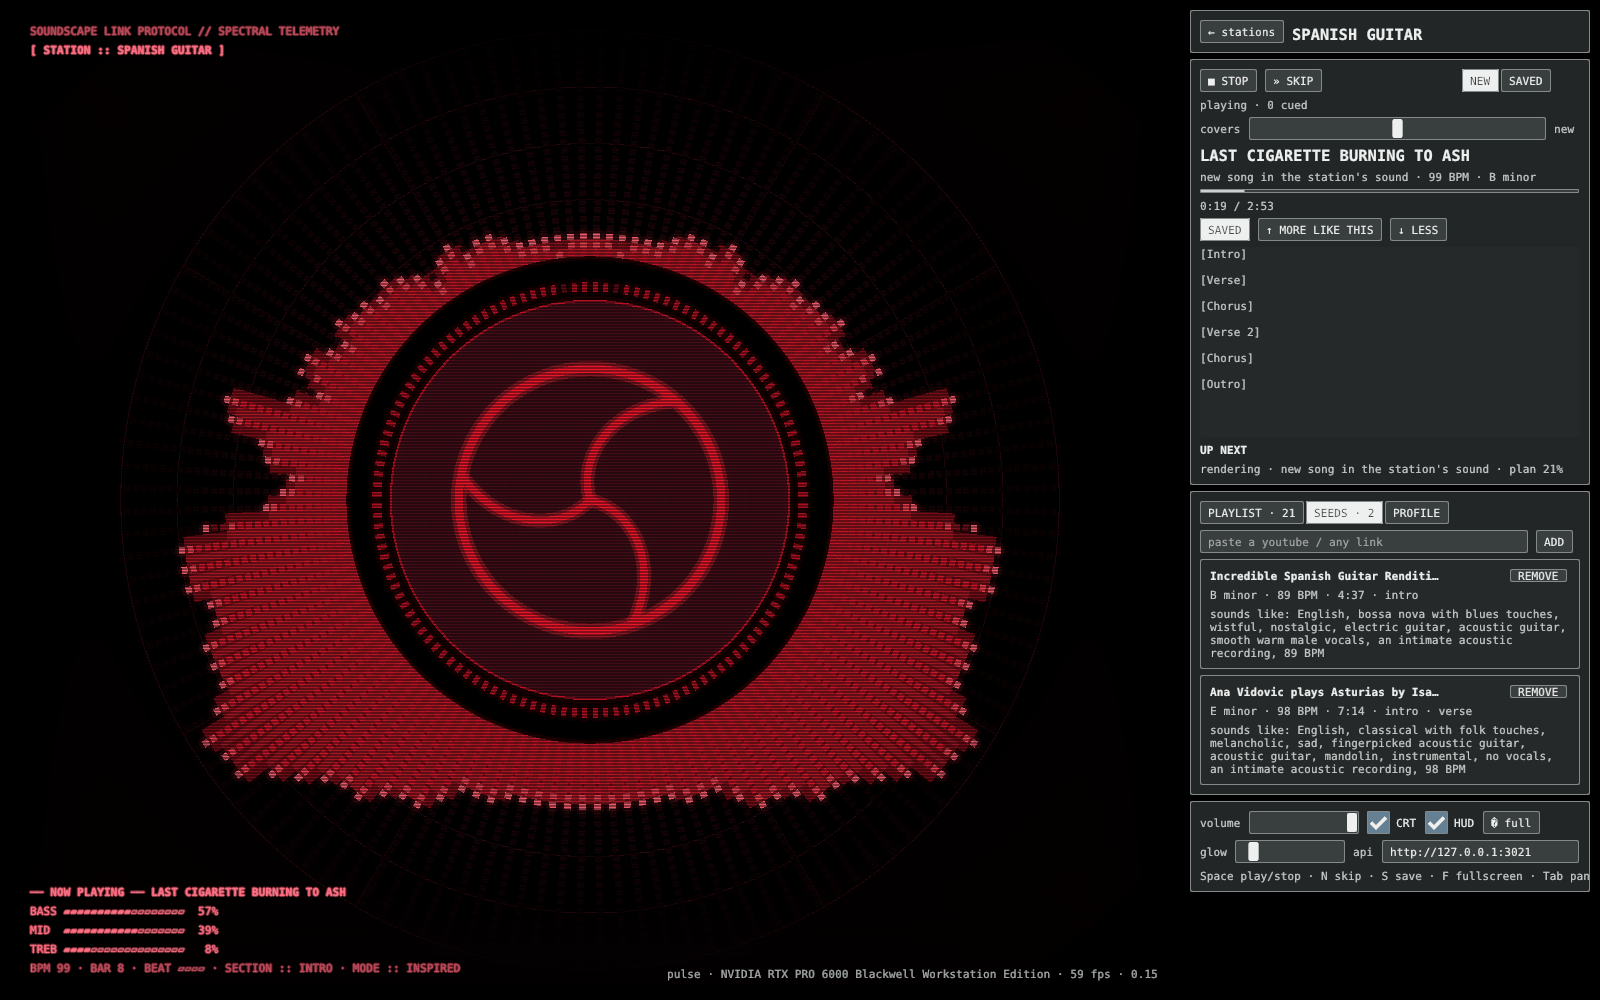
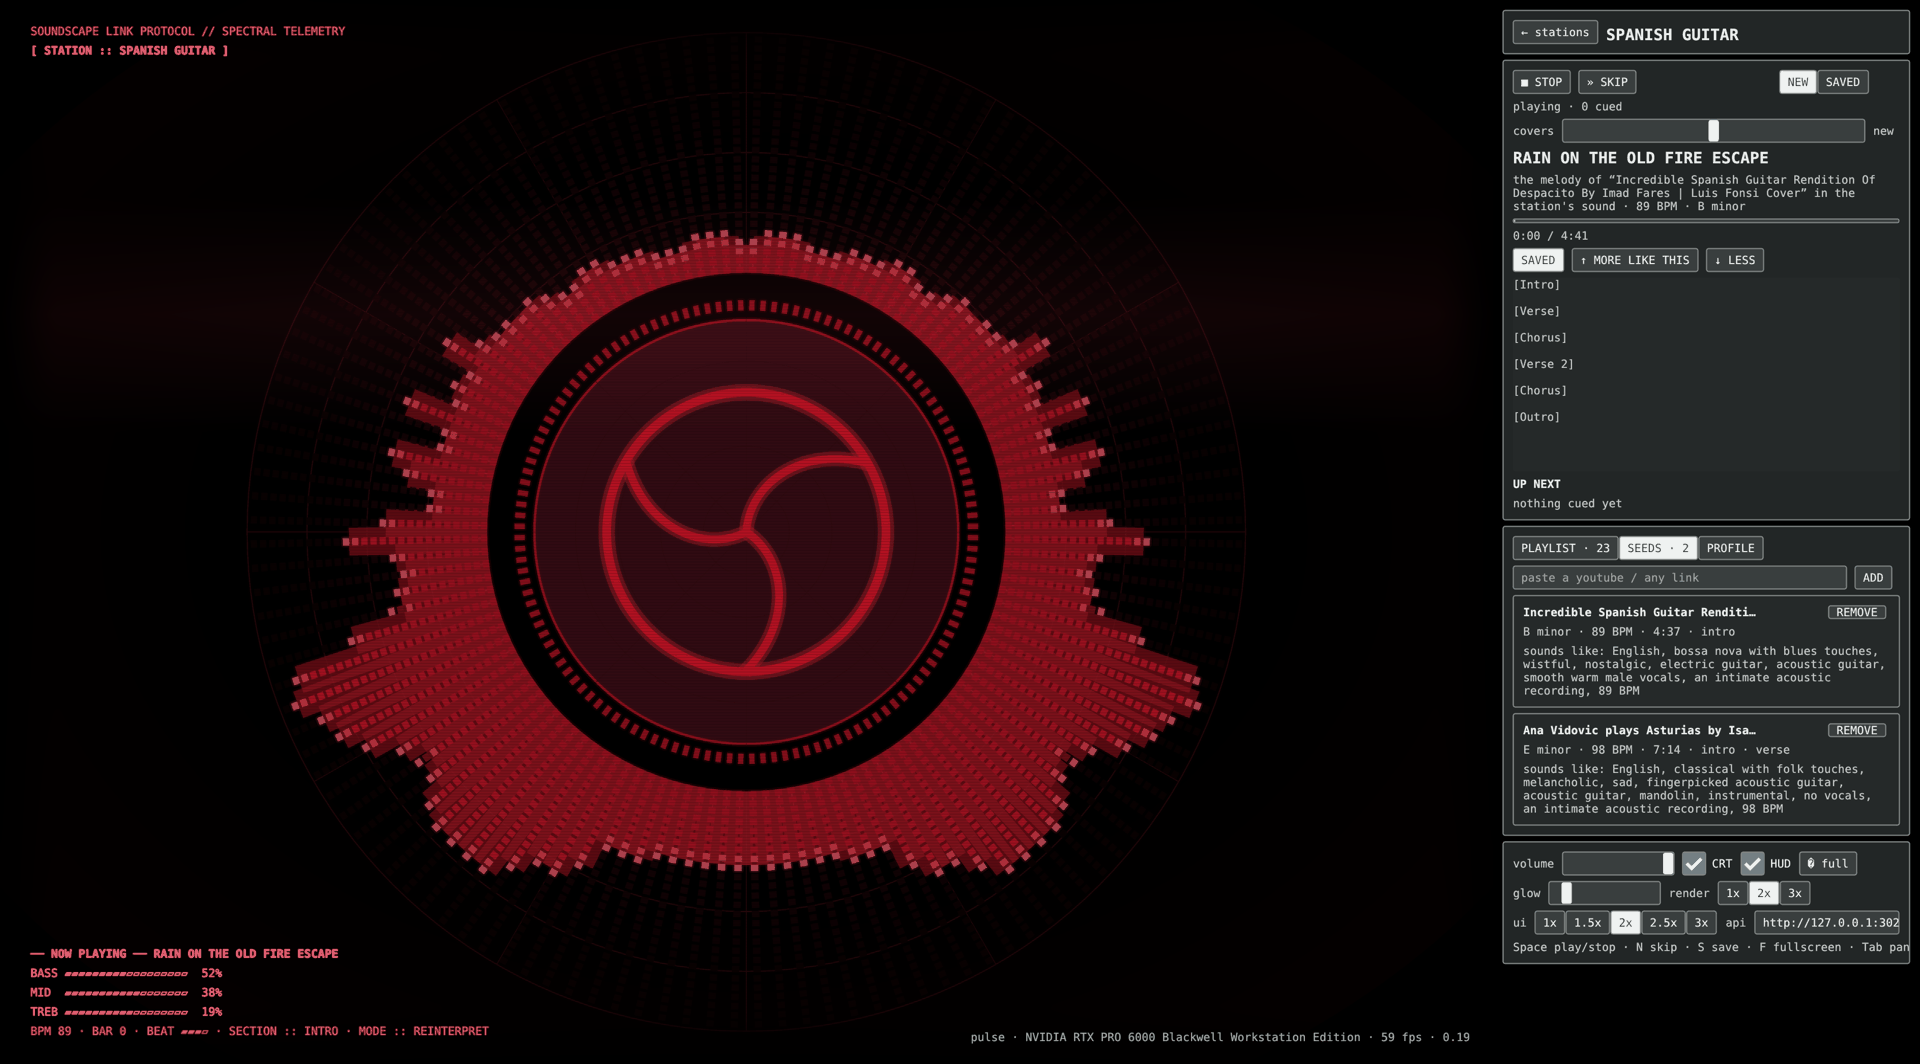
Scene supersampling (2x), maximized start, auto UI scale for 4K, runtime render/ui scale switches
Verified live on the 3840x2160 Wayland desktop: 3774x2091 window, offscreen 2x, ui 2.0x auto,
59-60 fps at vsync, validation silent. docs/native.png refreshed from that run.

diff --git a/src/app.cpp b/src/app.cpp
@@ -13,7 +13,7 @@ std::string fmtTime(double s) {
   int m = int(s) / 60, sec = int(s) % 60; char b[16]; std::snprintf(b, sizeof b, "%d:%02d", m, sec); return b;
 }
 
-App::App(Options o) : opt(std::move(o)), api(opt.apiBase) { std::snprintf(apiEdit, sizeof apiEdit, "%s", opt.apiBase.c_str()); }
+App::App(Options o) : opt(std::move(o)), api(opt.apiBase) { std::snprintf(apiEdit, sizeof apiEdit, "%s", opt.apiBase.c_str()); renderScale = opt.renderScale; }
 
 // ------------------------------------------------------------------ actions -------------------------------------------
 void App::refreshStations() {
@@ -258,9 +258,15 @@ int App::run() {
   }
   if (!glfwVulkanSupported()) { std::fprintf(stderr, "No Vulkan loader/ICD found (install libvulkan1 and your GPU's Vulkan driver)\n"); return 1; }
   glfwWindowHint(GLFW_CLIENT_API, GLFW_NO_API);
+  if (opt.maximized && !opt.fullscreen) glfwWindowHint(GLFW_MAXIMIZED, GLFW_TRUE);
   window = glfwCreateWindow(savedWinW, savedWinH, "Soundscape", nullptr, nullptr);
   if (!window) { std::fprintf(stderr, "window creation failed\n"); return 1; }
-  float sx = 1, sy = 1; glfwGetWindowContentScale(window, &sx, &sy); uiScale = std::max(1.f, sx);
+  // UI scale: the compositor's content scale × a size factor, so a 4K desktop at 100 % still gets readable panes.
+  float sx = 1, sy = 1; glfwGetWindowContentScale(window, &sx, &sy);
+  int fbw = 0, fbh = 0; glfwGetFramebufferSize(window, &fbw, &fbh);
+  uiScale = opt.uiScale > 0 ? opt.uiScale : std::max(1.f, sx) * std::clamp(fbh / (1100.f * std::max(1.f, sx)), 1.f, 2.5f);
+  uiScale = std::round(uiScale * 4) / 4;
+  uiBaseScale = uiScale;
   try {
     vk.vsync = opt.vsync; vk.preferredGpu = opt.gpu;
     vk.init(window, opt.validation);
@@ -270,7 +276,7 @@ int App::run() {
 #ifdef GLFW_PLATFORM_WAYLAND
   platform = glfwGetPlatform() == GLFW_PLATFORM_WAYLAND ? "wayland" : glfwGetPlatform() == GLFW_PLATFORM_X11 ? "x11" : "other";
 #endif
-  std::fprintf(stderr, "[soundscape] GPU: %s · %s · api %s\n", vk.gpuName.c_str(), platform, api.base().c_str());
+  std::fprintf(stderr, "[soundscape] GPU: %s · %s · api %s · ui %.2fx · render %.1fx\n", vk.gpuName.c_str(), platform, api.base().c_str(), uiScale, renderScale);
   for (size_t i = 0; i < vk.gpuNames.size(); i++) std::fprintf(stderr, "[soundscape]   --gpu %zu = %s\n", i, vk.gpuNames[i].c_str());
   // ---- ImGui
   IMGUI_CHECKVERSION(); ImGui::CreateContext(); ImGuiIO& io = ImGui::GetIO(); io.IniFilename = nullptr;
@@ -320,7 +326,7 @@ int App::run() {
     mark(3, tm);
     RenderParams rp; rp.x = 0; rp.y = 0; rp.h = int(vk.extent.height);
     const int panelW = panelVisible ? int(420 * uiScale) : 0;
-    rp.w = std::max(1, int(vk.extent.width) - panelW); rp.crt = crt; rp.glow = glow; rp.time = now;
+    rp.w = std::max(1, int(vk.extent.width) - panelW); rp.crt = crt; rp.glow = glow; rp.time = now; rp.renderScale = renderScale;
     renderer.render(cmd, imageIndex, frame, dt, rp);
     ImGui_ImplVulkan_RenderDrawData(ImGui::GetDrawData(), cmd);
     vkCmdEndRenderPass(cmd);

diff --git a/src/app.hpp b/src/app.hpp
@@ -18,7 +18,7 @@
 namespace ss {
 
 struct Options { std::string apiBase = "http://127.0.0.1:3021"; bool validation = false; bool vsync = true; bool fullscreen = false; std::string station;
-  bool autoplay = false; std::string screenshot; double screenshotAfter = 8; double exitAfter = 0; int gpu = -1; };
+  bool autoplay = false; std::string screenshot; double screenshotAfter = 8; double exitAfter = 0; int gpu = -1; float renderScale = 2.f; bool maximized = true; float uiScale = 0.f; /* 0 = auto */ };
 
 struct App {
   explicit App(Options o);
@@ -26,14 +26,14 @@ struct App {
 
   // ---- core
   Options opt; MainQueue mq; Api api; AudioEngine audio; std::unique_ptr<RadioPlayer> player; Analyser analyser{ 2048, 0.8f };
-  GLFWwindow* window = nullptr; VkContext vk; Renderer renderer; ImFont *font = nullptr, *fontBold = nullptr, *fontBig = nullptr; float uiScale = 1.f;
+  GLFWwindow* window = nullptr; VkContext vk; Renderer renderer; ImFont *font = nullptr, *fontBold = nullptr, *fontBig = nullptr; float uiScale = 1.f, uiBaseScale = 1.f; bool uiScaleDirty = true;
 
   // ---- radio state (main thread)
   std::vector<Station> stations; std::optional<Station> station; RadioStatus status; std::optional<Song> song; RadioPlayer::Pos pos{ 0, 0 };
   bool paused = false; std::string mode = "radio"; Playlist playlist; int plIndex = -1;
   std::string err, notice; Health health; bool healthKnown = false; bool busyStation = false;
   char newStationName[128] = ""; char seedUrl[512] = ""; char apiEdit[256] = ""; float covers = 0.5f; bool coversDragging = false; int tab = 1;
-  bool panelVisible = true, fullscreen = false, crt = true; float glow = 0.12f, volume = 1.f, fps = 0; bool showHud = true;
+  bool panelVisible = true, fullscreen = false, crt = true; float renderScale = 2.f, glow = 0.12f, volume = 1.f, fps = 0; bool showHud = true;
   int savedWinX = 100, savedWinY = 100, savedWinW = 1600, savedWinH = 1000;
 
   // worker-visible copies (the player's next-song callback runs off the main thread)

diff --git a/src/ui.cpp b/src/ui.cpp
@@ -240,6 +240,12 @@ void settingsPane(App& a) {
   ImGui::SameLine(); ImGui::Checkbox("CRT", &a.crt); ImGui::SameLine(); ImGui::Checkbox("HUD", &a.showHud);
   ImGui::SameLine(); if (ImGui::Button(a.fullscreen ? "⛶ window" : "⛶ full")) a.toggleFullscreen();
   ImGui::AlignTextToFramePadding(); dimUnwrapped("glow"); ImGui::SameLine(); ImGui::SetNextItemWidth(110 * s); ImGui::SliderFloat("##glow", &a.glow, 0.f, 1.f, "");
+  ImGui::SameLine(); dimUnwrapped("render"); ImGui::SameLine();
+  for (float v : { 1.f, 2.f, 3.f }) { char l[8]; std::snprintf(l, sizeof l, "%gx", v); if (toggle(l, std::fabs(a.renderScale - v) < 0.01f)) a.renderScale = v; ImGui::SameLine(0, 2); }
+  ImGui::NewLine();
+  ImGui::AlignTextToFramePadding(); dimUnwrapped("ui"); ImGui::SameLine();
+  for (float v : { 1.f, 1.5f, 2.f, 2.5f, 3.f }) { char l[8]; std::snprintf(l, sizeof l, "%gx", v); if (toggle(l, std::fabs(a.uiScale - v) < 0.01f)) { a.uiScale = v; a.uiScaleDirty = true; } ImGui::SameLine(0, 2); }
+  ImGui::NewLine();
   ImGui::SameLine(); ImGui::AlignTextToFramePadding(); dimUnwrapped("api"); ImGui::SameLine(); ImGui::SetNextItemWidth(-1);
   if (ImGui::InputText("##api", a.apiEdit, sizeof a.apiEdit, ImGuiInputTextFlags_EnterReturnsTrue)) { a.api.setBase(a.apiEdit); a.healthKnown = false; a.backToStations(); a.refreshHealth(); }
   dimUnwrapped("Space play/stop · N skip · S save · F fullscreen · Tab panel · H hud · C crt");
@@ -248,9 +254,8 @@ void settingsPane(App& a) {
 } // namespace
 
 void drawUI(App& a) {
-  static bool styled = false;
-  if (!styled) { applyStyle(a.uiScale); styled = true; }
   ImGuiIO& io = ImGui::GetIO();
+  if (a.uiScaleDirty) { applyStyle(a.uiScale); ImGui::GetStyle().FontScaleMain = a.uiScale / a.uiBaseScale; a.uiScaleDirty = false; }
   const float W = io.DisplaySize.x, H = io.DisplaySize.y, pw = a.panelVisible ? 420 * a.uiScale : 0;
   if (a.showHud) drawHud(a, W - pw, H);
   if (!a.panelVisible) return;

diff --git a/src/renderer.cpp b/src/renderer.cpp
@@ -248,15 +248,17 @@ void Renderer::update(const VisualFrame& f, float dt) {
 void Renderer::render(VkCommandBuffer cmd, uint32_t imageIndex, const VisualFrame& f, float dt, const RenderParams& p) {
   update(f, dt);
   uint32_t w = uint32_t(std::max(1, p.w)), h = uint32_t(std::max(1, p.h));
-  if (offExtent_.width != w || offExtent_.height != h) { vkDeviceWaitIdle(ctx_->device); destroyOffscreen(); createOffscreen(w, h); }
+  const float sc = std::clamp(p.renderScale, 1.f, 4.f);
+  uint32_t ow = uint32_t(std::lround(w * sc)), oh = uint32_t(std::lround(h * sc));
+  if (offExtent_.width != ow || offExtent_.height != oh) { vkDeviceWaitIdle(ctx_->device); destroyOffscreen(); createOffscreen(ow, oh); }
   Buffer& ib = instVB_[ctx_->frame];
   std::memcpy(ib.mapped, inst_.data(), inst_.size() * sizeof(Inst));
   // ---- offscreen scene pass
   VkClearValue clear{}; clear.color = { { 0.f, 0.f, 0.f, 1.f } };
   VkRenderPassBeginInfo rp{ VK_STRUCTURE_TYPE_RENDER_PASS_BEGIN_INFO }; rp.renderPass = offPass_; rp.framebuffer = offFb_; rp.renderArea = { { 0, 0 }, offExtent_ }; rp.clearValueCount = 1; rp.pClearValues = &clear;
   vkCmdBeginRenderPass(cmd, &rp, VK_SUBPASS_CONTENTS_INLINE);
-  VkViewport vp{ 0, 0, float(w), float(h), 0, 1 }; VkRect2D sc{ { 0, 0 }, { w, h } };
-  vkCmdSetViewport(cmd, 0, 1, &vp); vkCmdSetScissor(cmd, 0, 1, &sc);
+  VkViewport vp{ 0, 0, float(ow), float(oh), 0, 1 }; VkRect2D scis{ { 0, 0 }, { ow, oh } };
+  vkCmdSetViewport(cmd, 0, 1, &vp); vkCmdSetScissor(cmd, 0, 1, &scis);
   const float aspect = float(w) / float(h);
   Push pc{}; pc.proj[0] = 1.f / (CAM_HALF_H * aspect); pc.proj[1] = 1.f / CAM_HALF_H; pc.rot = 0; pc.scale = 1; pc.colorMul[0] = pc.colorMul[1] = pc.colorMul[2] = pc.colorMul[3] = 1;
   const float hit = f.beat.hit, bass = f.bands.bass;

diff --git a/src/main.cpp b/src/main.cpp
@@ -11,6 +11,9 @@ static void usage() {
             "  --no-vsync         mailbox/immediate present mode\n"
             "  --validation       enable VK_LAYER_KHRONOS_validation\n"
             "  --gpu N            pick the Vulkan device by index (env SOUNDSCAPE_GPU); the log lists them\n"
+            "  --render-scale X   supersample the scene X× the window size (default 2; 1 = off)\n"
+            "  --no-maximize      start with a 1600×1000 window instead of maximized\n"
+            "  --ui-scale X       panel/HUD scale (default: auto from display scale and size)\n"
             "  --autoplay         press Play once the station is loaded\n"
             "  --screenshot PATH  write a PPM of the window after --screenshot-after seconds (default 8)\n"
             "  --exit-after SEC   quit after SEC seconds (after the screenshot, if any)\n"
@@ -30,6 +33,9 @@ int main(int argc, char** argv) {
     else if (a == "--validation") o.validation = true;
     else if (a == "--autoplay") o.autoplay = true;
     else if (a == "--gpu" && i + 1 < argc) o.gpu = std::atoi(argv[++i]);
+    else if (a == "--render-scale" && i + 1 < argc) o.renderScale = float(std::atof(argv[++i]));
+    else if (a == "--no-maximize") o.maximized = false;
+    else if (a == "--ui-scale" && i + 1 < argc) o.uiScale = float(std::atof(argv[++i]));
     else if (a == "--screenshot" && i + 1 < argc) o.screenshot = argv[++i];
     else if (a == "--screenshot-after" && i + 1 < argc) o.screenshotAfter = std::atof(argv[++i]);
     else if (a == "--exit-after" && i + 1 < argc) o.exitAfter = std::atof(argv[++i]);

diff --git a/src/renderer.hpp b/src/renderer.hpp
@@ -10,6 +10,7 @@ namespace ss {
 struct RenderParams {
   int x = 0, y = 0, w = 1, h = 1;    // scene region in the swapchain (pixels)
   bool crt = true; float glow = 0.12f; double time = 0;
+  float renderScale = 2.f;             // offscreen = region × scale (supersampling; the post pass downsamples)
 };
 
 class Renderer {

diff --git a/README.md b/README.md
@@ -7,7 +7,7 @@ visualizer with raw Vulkan (GLSL → SPIR-V, no three.js, no browser). Dear ImGu
 
 ![the native client playing the Spanish Guitar station](docs/native.png)
 
-*Native client, GNOME Wayland, RTX PRO 6000: 60 fps with vsync, ~0.5 ms of CPU per frame.*
+*Native client on a 3840×2160 GNOME Wayland desktop, RTX PRO 6000: 60 fps with vsync, scene supersampled 2×, ~0.5 ms of CPU per frame.*
 
 The web UI is not needed while this runs; both can be open at once (they share the api's radio state).
 
@@ -41,7 +41,8 @@ ctest --test-dir build --output-on-failure     # unit tests: analysis, beat cloc
 ./build/soundscape-native                        # or: --api http://host:3021  --station <id>  --fullscreen
 ```
 
-Options: `--api URL` (or `SOUNDSCAPE_API=…`), `--station ID`, `--autoplay`, `--fullscreen`, `--gpu N` (or `SOUNDSCAPE_GPU`),
+Options: `--api URL` (or `SOUNDSCAPE_API=…`), `--station ID`, `--autoplay`, `--fullscreen`, `--no-maximize`, `--render-scale X`
+(scene supersampling, default 2), `--ui-scale X` (default auto from display scale and size), `--gpu N` (or `SOUNDSCAPE_GPU`),
 `--no-vsync`, `--validation`, `--screenshot out.ppm [--screenshot-after S]`, `--exit-after S`. `SOUNDSCAPE_X11=1` forces
 Xwayland; `SOUNDSCAPE_PROFILE=1` prints per-phase frame timings at exit.
 
@@ -55,7 +56,7 @@ Keys: **Space** play/stop · **N** skip · **S** save · **F**/**F11** fullscree
 | Stations | list, create, open; sidecar health line (yue2 / sheetsage / clipgrab · GPU · idle/loaded) |
 | Radio | STOP/SKIP, NEW ↔ SAVED (radio vs saved-song playlist), `covers ↔ new` slider, now playing + plan + progress + lyrics, SAVE / MORE LIKE THIS / LESS, UP NEXT (click to play now), rendering progress |
 | Station | PLAYLIST (saved songs, click to play), SEEDS (add a YouTube/any link, remove), PROFILE (sound, mood/genre tags, blurb) |
-| Settings | volume, CRT, HUD, glow, fullscreen, api URL |
+| Settings | volume, CRT, HUD, glow, render scale 1×/2×/3×, UI scale, fullscreen, api URL |
 
 The player is a port of the web app's `RadioPlayer`: two decks, a 3 s equal-time crossfade starting `duration − 3 s`,
 a 250 ms tick, a 15 s stuck watchdog, and a next-song fetch that always clears (a failed fetch retries after 1 s

diff --git a/docs/design.md b/docs/design.md
@@ -38,6 +38,10 @@ already-downloaded bytes, so the lock is never held across I/O.
 - Blending: `MeshBasicMaterial` opaque draws use alpha blending with α = 1; the bloom bars and wheel glow use
   additive (`SrcAlpha, One`) like three's `AdditiveBlending`.
 - Draw order follows the web `renderOrder`: grid → bloom → segments → ticks → disc → bezel/lines → wheel glow → wheel.
+- Supersampling: the offscreen target is `renderScale` × the scene region (default 2×); the post pass samples it
+  with a linear sampler, which is a 2×2 box filter — cheap anti-aliasing for the rotated segment quads. UI scale
+  defaults to content scale × clamp(framebuffer height / 1100, 1, 2.5) so a 4K desktop at 100 % is readable; both
+  are switchable at runtime in the settings pane (ImGui 1.92 dynamic fonts re-bake via `FontScaleMain`).
 - Per frame the CPU rewrites 3328 segment + 128 bloom + 128 tick instances (40 bytes each) into a persistently
   mapped host-visible buffer (one per frame in flight).
 
